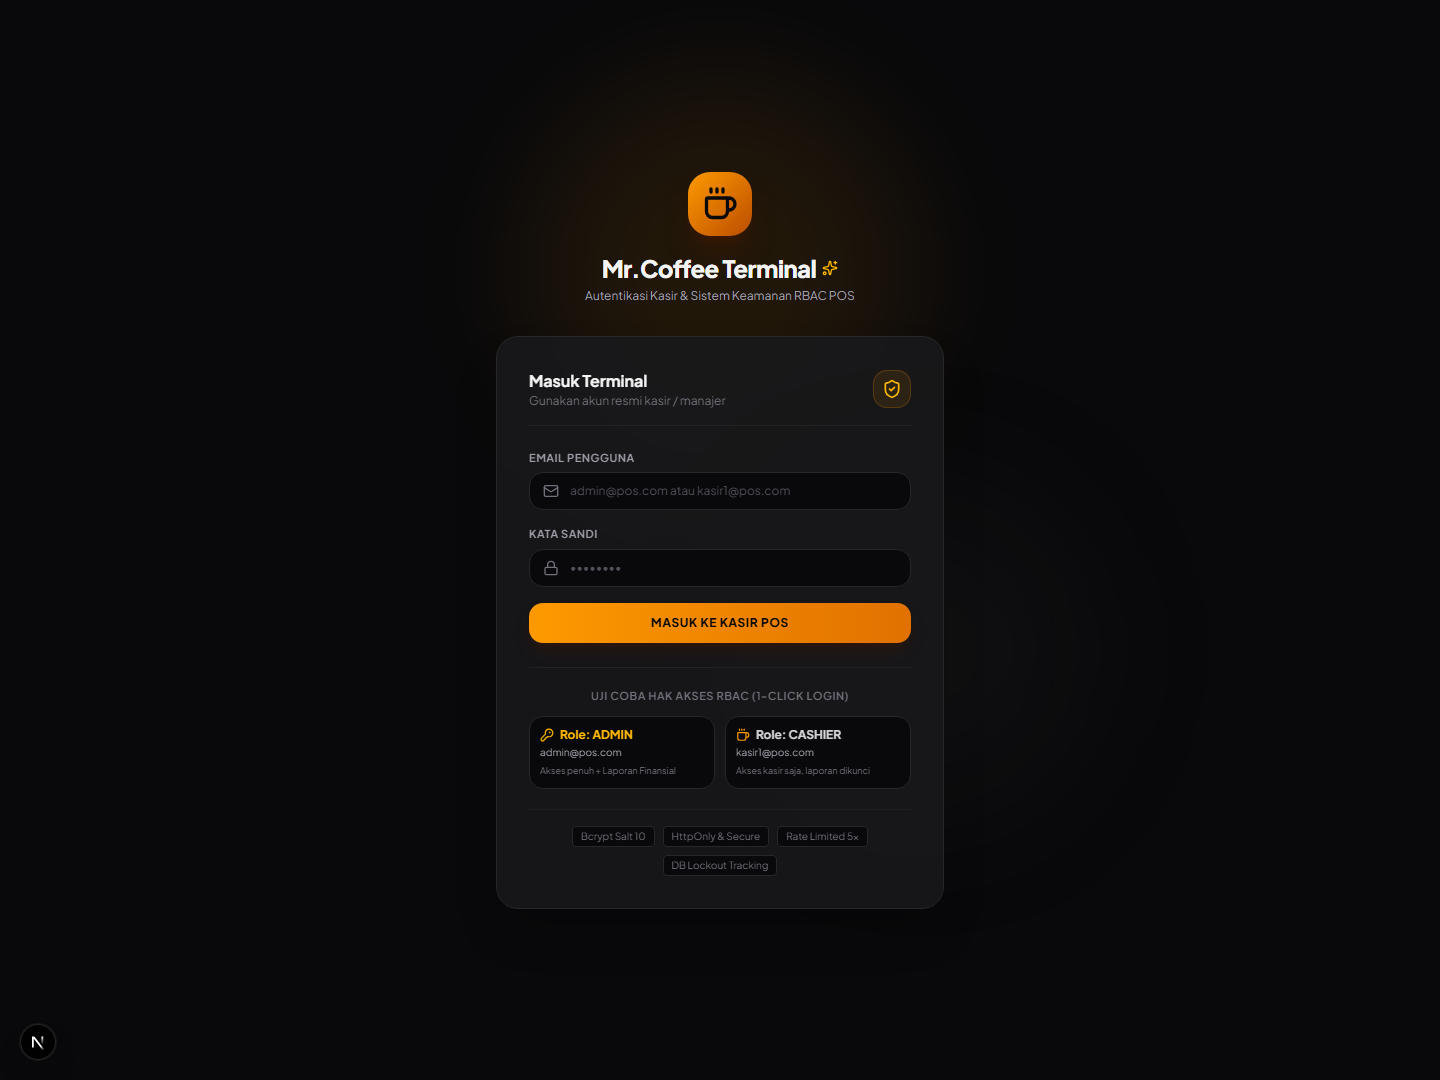
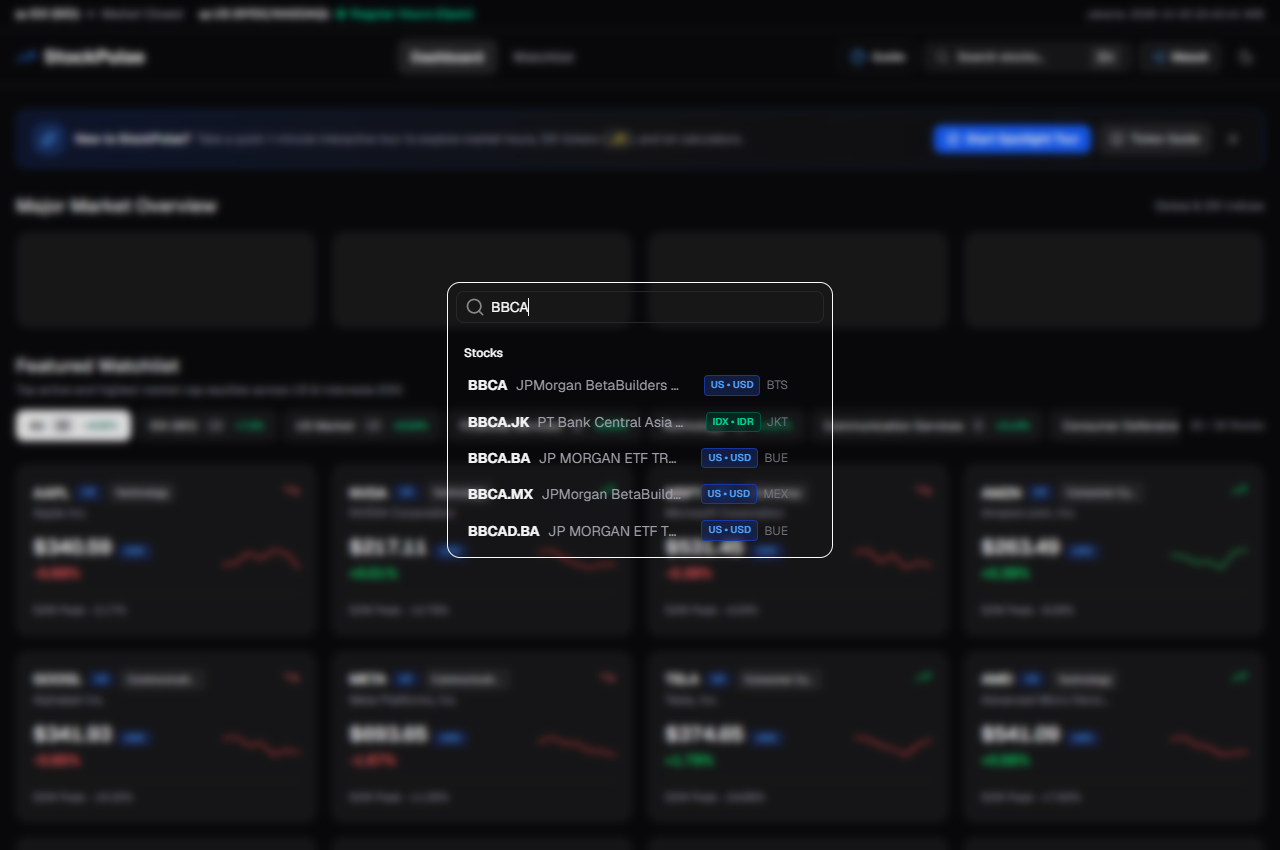
fix(tutorial): fix modal cut-off overflow, add live feature highlight, and fix command palette screenshot

diff --git a/frontend/src/components/features/TutorialModal.tsx b/frontend/src/components/features/TutorialModal.tsx
@@ -1,6 +1,6 @@
 'use client'
 
-import React, { useState, useEffect } from 'react'
+import React, { useState, useEffect, useCallback } from 'react'
 import { useRouter } from 'next/navigation'
 import {
   X,
@@ -29,6 +29,8 @@ interface Step {
   id: number
   title: string
   badge: string
+  targetId?: string
+  targetLabel?: string
   Icon: React.ComponentType<{ className?: string }>
   headline: string
   description: string
@@ -42,6 +44,8 @@ const STEPS: Step[] = [
     id: 1,
     title: 'Search Tickers (Cmd+K)',
     badge: 'Step 1',
+    targetId: 'tour-search-command',
+    targetLabel: 'Search Command Palette',
     Icon: Search,
     headline: 'Instant ticker lookup for Wall Street (US) & Indonesia (IDX)',
     description:
@@ -58,6 +62,8 @@ const STEPS: Step[] = [
     id: 2,
     title: 'Live Market Hours',
     badge: 'Step 2',
+    targetId: 'tour-market-status',
+    targetLabel: 'Market Status Ribbon',
     Icon: Clock,
     headline: 'Real-time trading status for Jakarta (IDX) and New York (US)',
     description:
@@ -74,6 +80,8 @@ const STEPS: Step[] = [
     id: 3,
     title: 'IDX Lot Sizing & Fees',
     badge: 'Step 3',
+    targetId: 'tour-stock-grid',
+    targetLabel: 'Stock Cards & IDX Lot Calculator',
     Icon: Calculator,
     headline: 'Calculate capital requirements (1 lot = 100 shares) and transaction fees',
     description:
@@ -90,6 +98,8 @@ const STEPS: Step[] = [
     id: 4,
     title: 'Watchlists & Price Alerts',
     badge: 'Step 4',
+    targetId: 'tour-stock-grid',
+    targetLabel: 'Watchlist Grid & Price Alerts',
     Icon: Bell,
     headline: 'Save watchlist assets and configure price trigger notifications',
     description:
@@ -134,6 +144,43 @@ export function TutorialModal({ isOpen, onClose, onStartSpotlightTour }: Tutoria
   const [activeTab, setActiveTab] = useState<'tour' | 'cheatSheet'>('tour')
   const [currentStep, setCurrentStep] = useState(0)
   const [dontShowAgain, setDontShowAgain] = useState(false)
+  const [targetRect, setTargetRect] = useState<DOMRect | null>(null)
+
+  const updateTargetRect = useCallback(() => {
+    if (!isOpen || activeTab !== 'tour') {
+      setTargetRect(null)
+      return
+    }
+    const current = STEPS[currentStep]
+    if (!current?.targetId) {
+      setTargetRect(null)
+      return
+    }
+    const el = document.getElementById(current.targetId)
+    if (el) {
+      el.scrollIntoView({ behavior: 'smooth', block: 'center' })
+      setTimeout(() => {
+        const rect = el.getBoundingClientRect()
+        setTargetRect(rect)
+      }, 300)
+    } else {
+      setTargetRect(null)
+    }
+  }, [isOpen, activeTab, currentStep])
+
+  useEffect(() => {
+    if (isOpen && activeTab === 'tour') {
+      updateTargetRect()
+      window.addEventListener('resize', updateTargetRect)
+      window.addEventListener('scroll', updateTargetRect)
+      return () => {
+        window.removeEventListener('resize', updateTargetRect)
+        window.removeEventListener('scroll', updateTargetRect)
+      }
+    } else {
+      setTargetRect(null)
+    }
+  }, [isOpen, activeTab, currentStep, updateTargetRect])
 
   useEffect(() => {
     if (!isOpen) return
@@ -173,7 +220,7 @@ export function TutorialModal({ isOpen, onClose, onStartSpotlightTour }: Tutoria
 
   return (
     <div
-      className="fixed inset-0 z-50 flex items-center justify-center bg-black/70 p-3 sm:p-4 backdrop-blur-xs"
+      className="fixed inset-0 z-50 overflow-y-auto bg-black/75 p-3 sm:p-4 md:p-6 backdrop-blur-xs"
       role="dialog"
       aria-modal="true"
       aria-labelledby="tutorial-dialog-title"
@@ -181,118 +228,156 @@ export function TutorialModal({ isOpen, onClose, onStartSpotlightTour }: Tutoria
         if (e.target === e.currentTarget) handleFinish()
       }}
     >
-      <div className="relative flex max-h-[90vh] w-full max-w-2xl flex-col overflow-hidden rounded-2xl border border-zinc-800 bg-zinc-950 text-zinc-100 shadow-2xl">
-        {/* Header */}
-        <div className="flex items-center justify-between border-b border-zinc-800/80 bg-zinc-900/60 px-5 py-3.5">
-          <div className="flex items-center gap-2.5">
-            <span className="grid h-9 w-9 place-items-center rounded-xl bg-blue-600/20 text-blue-400 border border-blue-500/30">
-              <TrendingUp className="h-5 w-5" />
-            </span>
-            <div>
-              <h2 id="tutorial-dialog-title" className="text-base font-bold text-zinc-100 leading-tight">
-                StockPulse Platform Guide
-              </h2>
-              <p className="text-xs text-zinc-400">Master US & IDX stock market watcher features in 4 steps</p>
-            </div>
-          </div>
-          <button
-            type="button"
-            onClick={handleFinish}
-            className="grid h-8 w-8 place-items-center rounded-lg text-zinc-400 hover:bg-zinc-800 hover:text-zinc-200 transition"
-            aria-label="Close guide"
-          >
-            <X className="h-4 w-4" />
-          </button>
+      {/* Live Target Feature Spotlight Ring */}
+      {activeTab === 'tour' && targetRect && (
+        <div
+          style={{
+            top: `${Math.max(0, targetRect.top - 6)}px`,
+            left: `${Math.max(0, targetRect.left - 6)}px`,
+            width: `${targetRect.width + 12}px`,
+            height: `${targetRect.height + 12}px`,
+          }}
+          className="fixed pointer-events-none z-40 rounded-xl ring-2 sm:ring-4 ring-blue-500 shadow-[0_0_80px_rgba(59,130,246,0.65)] animate-pulse transition-all duration-300"
+        >
+          <span className="absolute -top-7 left-2 flex items-center gap-1.5 rounded-md bg-blue-600 px-2 py-0.5 text-[10px] font-bold text-white shadow-lg">
+            <Sparkles className="h-3 w-3" />
+            <span>Target: {step.targetLabel ?? step.title}</span>
+          </span>
         </div>
+      )}
 
-        {/* Tab Switcher */}
-        <div className="flex border-b border-zinc-800 bg-zinc-950 px-5 pt-2">
-          <button
-            type="button"
-            onClick={() => setActiveTab('tour')}
-            className={`flex items-center gap-2 border-b-2 px-4 pb-2.5 text-xs sm:text-sm font-semibold transition ${
-              activeTab === 'tour'
-                ? 'border-blue-500 text-blue-400'
-                : 'border-transparent text-zinc-400 hover:text-zinc-200'
-            }`}
-          >
-            <Sparkles className="h-4 w-4 text-blue-400" />
-            <span>Quick Tour (4 Steps)</span>
-          </button>
-          <button
-            type="button"
-            onClick={() => setActiveTab('cheatSheet')}
-            className={`flex items-center gap-2 border-b-2 px-4 pb-2.5 text-xs sm:text-sm font-semibold transition ${
-              activeTab === 'cheatSheet'
-                ? 'border-blue-500 text-blue-400'
-                : 'border-transparent text-zinc-400 hover:text-zinc-200'
-            }`}
-          >
-            <BookOpen className="h-4 w-4 text-amber-400" />
-            <span>Popular Tickers Cheat Sheet</span>
-          </button>
-        </div>
-
-        {/* Content Body */}
-        <div className="flex-1 overflow-y-auto p-5 sm:p-6 space-y-5">
-          {activeTab === 'tour' ? (
-            <div className="space-y-5">
-              {/* Step Navigation Pills */}
-              <div className="flex items-center justify-between gap-1.5 sm:gap-2">
-                {STEPS.map((s, idx) => (
-                  <button
-                    key={s.id}
-                    type="button"
-                    onClick={() => setCurrentStep(idx)}
-                    className={`flex flex-1 items-center justify-center gap-1.5 rounded-lg py-2 px-1 text-xs font-semibold transition ${
-                      currentStep === idx
-                        ? 'bg-blue-600 text-white shadow-xs'
-                        : currentStep > idx
-                        ? 'bg-blue-950/40 text-blue-300 border border-blue-800/60'
-                        : 'bg-zinc-900 text-zinc-400 hover:bg-zinc-800 hover:text-zinc-200'
-                    }`}
-                  >
-                    <span>{idx + 1}.</span>
-                    <span className="hidden sm:inline truncate">{s.title}</span>
-                  </button>
-                ))}
+      <div className="flex min-h-full items-center justify-center py-2 sm:py-4">
+        <div className="relative z-50 flex max-h-[85vh] sm:max-h-[88vh] w-full max-w-2xl flex-col overflow-hidden rounded-2xl border border-zinc-800 bg-zinc-950 text-zinc-100 shadow-2xl">
+          {/* Header */}
+          <div className="flex shrink-0 items-center justify-between border-b border-zinc-800/80 bg-zinc-900/60 px-5 py-3.5">
+            <div className="flex items-center gap-2.5">
+              <span className="grid h-9 w-9 place-items-center rounded-xl bg-blue-600/20 text-blue-400 border border-blue-500/30">
+                <TrendingUp className="h-5 w-5" />
+              </span>
+              <div>
+                <h2 id="tutorial-dialog-title" className="text-base font-bold text-zinc-100 leading-tight">
+                  StockPulse Platform Guide
+                </h2>
+                <p className="text-xs text-zinc-400">Master US & IDX stock market watcher features in 4 steps</p>
               </div>
+            </div>
+            <button
+              type="button"
+              onClick={handleFinish}
+              className="grid h-8 w-8 place-items-center rounded-lg text-zinc-400 hover:bg-zinc-800 hover:text-zinc-200 transition"
+              aria-label="Close guide"
+            >
+              <X className="h-4 w-4" />
+            </button>
+          </div>
 
-              {/* Step Card */}
-              <div
-                className={`relative overflow-hidden rounded-xl border bg-gradient-to-br ${step.accentBg} p-5`}
-              >
-                <div className="flex items-start gap-4">
-                  <span className={`grid h-11 w-11 shrink-0 place-items-center rounded-xl ${step.accentIcon} shadow-sm`}>
-                    <step.Icon className="h-5 w-5" />
-                  </span>
-                  <div className="space-y-1">
-                    <span className="inline-block rounded-md bg-white/10 px-2 py-0.5 text-[10px] font-bold text-zinc-200 uppercase tracking-wider">
-                      {step.badge}
+          {/* Tab Switcher */}
+          <div className="flex shrink-0 border-b border-zinc-800 bg-zinc-950 px-5 pt-2">
+            <button
+              type="button"
+              onClick={() => setActiveTab('tour')}
+              className={`flex items-center gap-2 border-b-2 px-4 pb-2.5 text-xs sm:text-sm font-semibold transition ${
+                activeTab === 'tour'
+                  ? 'border-blue-500 text-blue-400'
+                  : 'border-transparent text-zinc-400 hover:text-zinc-200'
+              }`}
+            >
+              <Sparkles className="h-4 w-4 text-blue-400" />
+              <span>Quick Tour (4 Steps)</span>
+            </button>
+            <button
+              type="button"
+              onClick={() => setActiveTab('cheatSheet')}
+              className={`flex items-center gap-2 border-b-2 px-4 pb-2.5 text-xs sm:text-sm font-semibold transition ${
+                activeTab === 'cheatSheet'
+                  ? 'border-blue-500 text-blue-400'
+                  : 'border-transparent text-zinc-400 hover:text-zinc-200'
+              }`}
+            >
+              <BookOpen className="h-4 w-4 text-amber-400" />
+              <span>Popular Tickers Cheat Sheet</span>
+            </button>
+          </div>
+
+          {/* Content Body */}
+          <div className="flex-1 min-h-0 overflow-y-auto p-4 sm:p-6 space-y-4">
+            {activeTab === 'tour' ? (
+              <div className="space-y-4">
+                {/* Step Navigation Pills */}
+                <div className="flex items-center justify-between gap-1.5 sm:gap-2">
+                  {STEPS.map((s, idx) => (
+                    <button
+                      key={s.id}
+                      type="button"
+                      onClick={() => setCurrentStep(idx)}
+                      className={`flex flex-1 items-center justify-center gap-1.5 rounded-lg py-2 px-1 text-xs font-semibold transition ${
+                        currentStep === idx
+                          ? 'bg-blue-600 text-white shadow-xs'
+                          : currentStep > idx
+                          ? 'bg-blue-950/40 text-blue-300 border border-blue-800/60'
+                          : 'bg-zinc-900 text-zinc-400 hover:bg-zinc-800 hover:text-zinc-200'
+                      }`}
+                    >
+                      <span>{idx + 1}.</span>
+                      <span className="hidden sm:inline truncate">{s.title}</span>
+                    </button>
+                  ))}
+                </div>
+
+                {/* Step Card */}
+                <div
+                  className={`relative overflow-hidden rounded-xl border bg-gradient-to-br ${step.accentBg} p-5`}
+                >
+                  <div className="flex items-start gap-4">
+                    <span className={`grid h-11 w-11 shrink-0 place-items-center rounded-xl ${step.accentIcon} shadow-sm`}>
+                      <step.Icon className="h-5 w-5" />
                     </span>
-                    <h3 className="text-base sm:text-lg font-bold text-zinc-100">{step.headline}</h3>
-                    <p className="text-xs sm:text-sm text-zinc-300 leading-relaxed pt-1">{step.description}</p>
+                    <div className="space-y-1">
+                      <span className="inline-block rounded-md bg-white/10 px-2 py-0.5 text-[10px] font-bold text-zinc-200 uppercase tracking-wider">
+                        {step.badge}
+                      </span>
+                      <h3 className="text-base sm:text-lg font-bold text-zinc-100">{step.headline}</h3>
+                      <p className="text-xs sm:text-sm text-zinc-300 leading-relaxed pt-1">{step.description}</p>
+                    </div>
+                  </div>
+
+                  {/* Target Feature Indicator & Focus Action */}
+                  {step.targetId && (
+                    <div className="mt-4 flex items-center justify-between rounded-lg border border-blue-500/25 bg-blue-950/40 px-3 py-2 text-xs">
+                      <div className="flex items-center gap-1.5 text-blue-300">
+                        <Compass className="h-3.5 w-3.5 text-blue-400 shrink-0" />
+                        <span>
+                          Highlighted Feature: <strong className="text-zinc-100 font-semibold">{step.targetLabel}</strong>
+                        </span>
+                      </div>
+                      <button
+                        type="button"
+                        onClick={updateTargetRect}
+                        className="rounded-md border border-blue-500/40 bg-blue-600/20 px-2.5 py-1 text-[11px] font-semibold text-blue-300 hover:bg-blue-600 hover:text-white transition"
+                      >
+                        Highlight on Screen
+                      </button>
+                    </div>
+                  )}
+
+                  {/* Highlight Tips */}
+                  <div className="mt-4 rounded-xl border border-zinc-800 bg-zinc-900/90 p-3.5 space-y-2">
+                    <h4 className="text-xs font-bold text-zinc-200 uppercase tracking-wide flex items-center gap-1.5">
+                      <Check className="h-3.5 w-3.5 text-blue-400" />
+                      <span>Key Points:</span>
+                    </h4>
+                    <ul className="space-y-1.5 text-xs text-zinc-300">
+                      {step.tips.map((tip, i) => (
+                        <li key={i} className="flex items-start gap-2 leading-relaxed">
+                          <span className="mt-1 h-1.5 w-1.5 shrink-0 rounded-full bg-blue-400" />
+                          <span>{tip}</span>
+                        </li>
+                      ))}
+                    </ul>
                   </div>
                 </div>
-
-                {/* Highlight Tips */}
-                <div className="mt-4 rounded-xl border border-zinc-800 bg-zinc-900/90 p-3.5 space-y-2">
-                  <h4 className="text-xs font-bold text-zinc-200 uppercase tracking-wide flex items-center gap-1.5">
-                    <Check className="h-3.5 w-3.5 text-blue-400" />
-                    <span>Key Points:</span>
-                  </h4>
-                  <ul className="space-y-1.5 text-xs text-zinc-300">
-                    {step.tips.map((tip, i) => (
-                      <li key={i} className="flex items-start gap-2 leading-relaxed">
-                        <span className="mt-1 h-1.5 w-1.5 shrink-0 rounded-full bg-blue-400" />
-                        <span>{tip}</span>
-                      </li>
-                    ))}
-                  </ul>
-                </div>
               </div>
-            </div>
-          ) : (
+            ) : (
             <div className="space-y-5">
               <div className="rounded-xl border border-zinc-800 bg-zinc-900/70 p-3 text-xs text-zinc-300 leading-relaxed">
                 <span className="font-semibold text-blue-400">Ticker Convention:</span> Indonesian stocks (IDX) require the <code className="rounded bg-zinc-800 px-1 py-0.5 text-amber-300 font-mono">.JK</code> suffix. Click any ticker below to navigate to its live chart and analytics.
@@ -335,7 +420,7 @@ export function TutorialModal({ isOpen, onClose, onStartSpotlightTour }: Tutoria
         </div>
 
         {/* Footer */}
-        <div className="flex flex-wrap items-center justify-between gap-3 border-t border-zinc-800/80 bg-zinc-900/60 px-5 py-3">
+        <div className="flex shrink-0 flex-wrap items-center justify-between gap-3 border-t border-zinc-800/80 bg-zinc-900/60 px-5 py-3">
           <label className="flex items-center gap-2 cursor-pointer select-none text-xs text-zinc-400 hover:text-zinc-200">
             <input
               type="checkbox"
@@ -395,5 +480,6 @@ export function TutorialModal({ isOpen, onClose, onStartSpotlightTour }: Tutoria
         </div>
       </div>
     </div>
+  </div>
   )
 }
